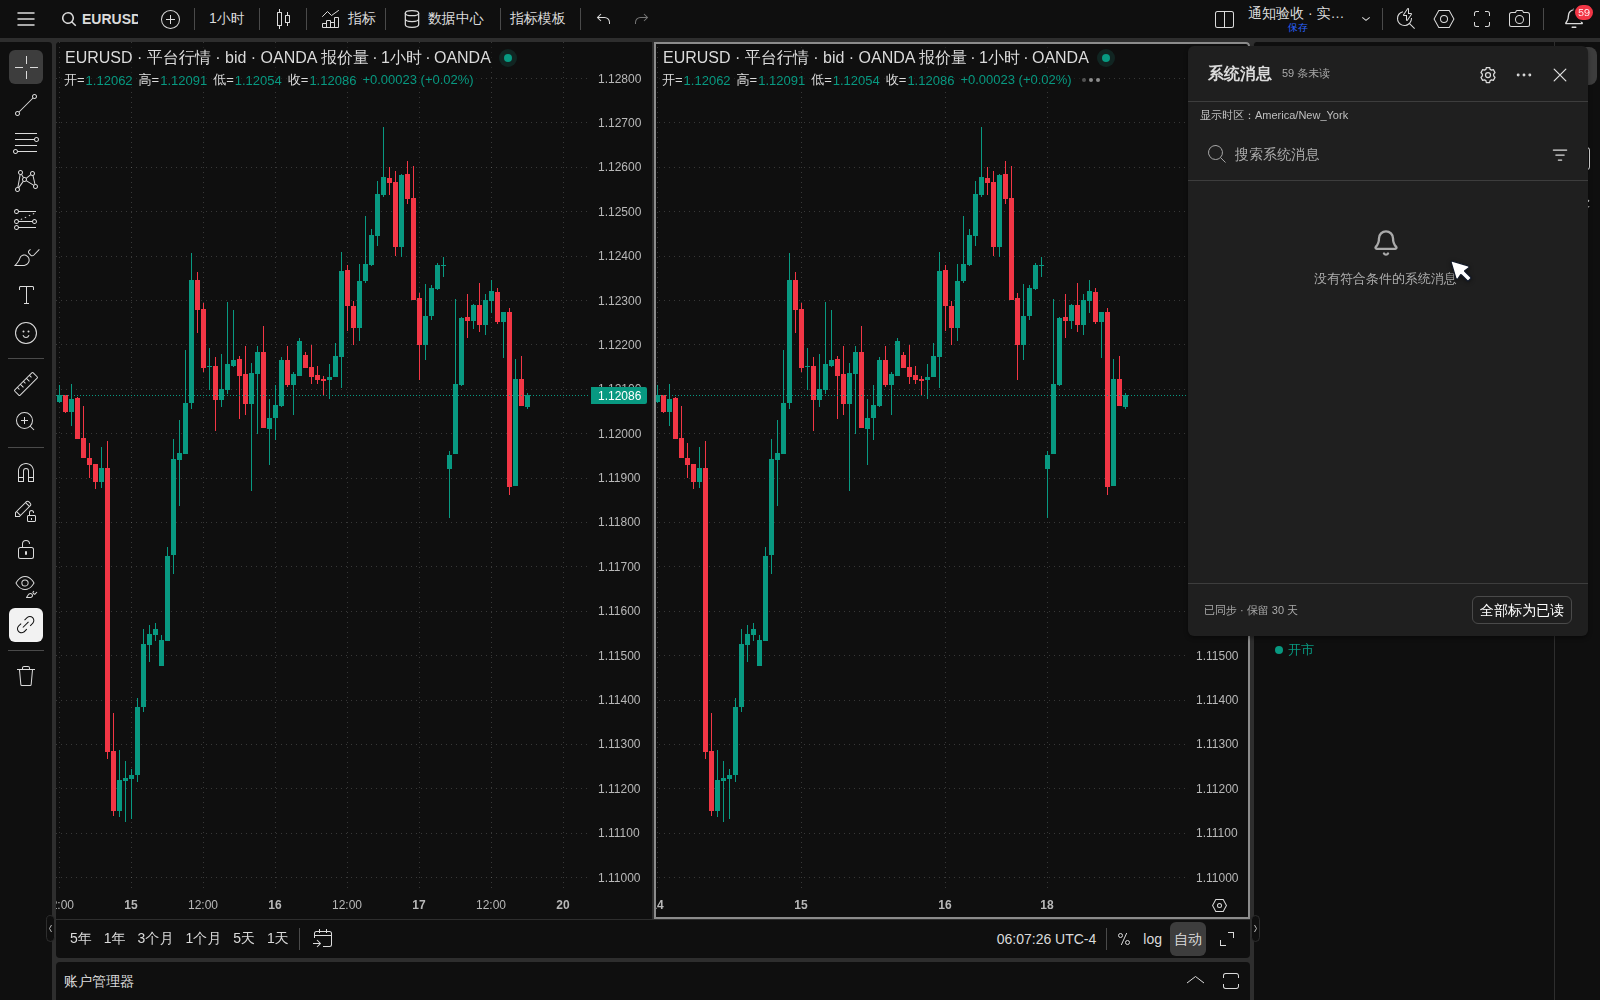
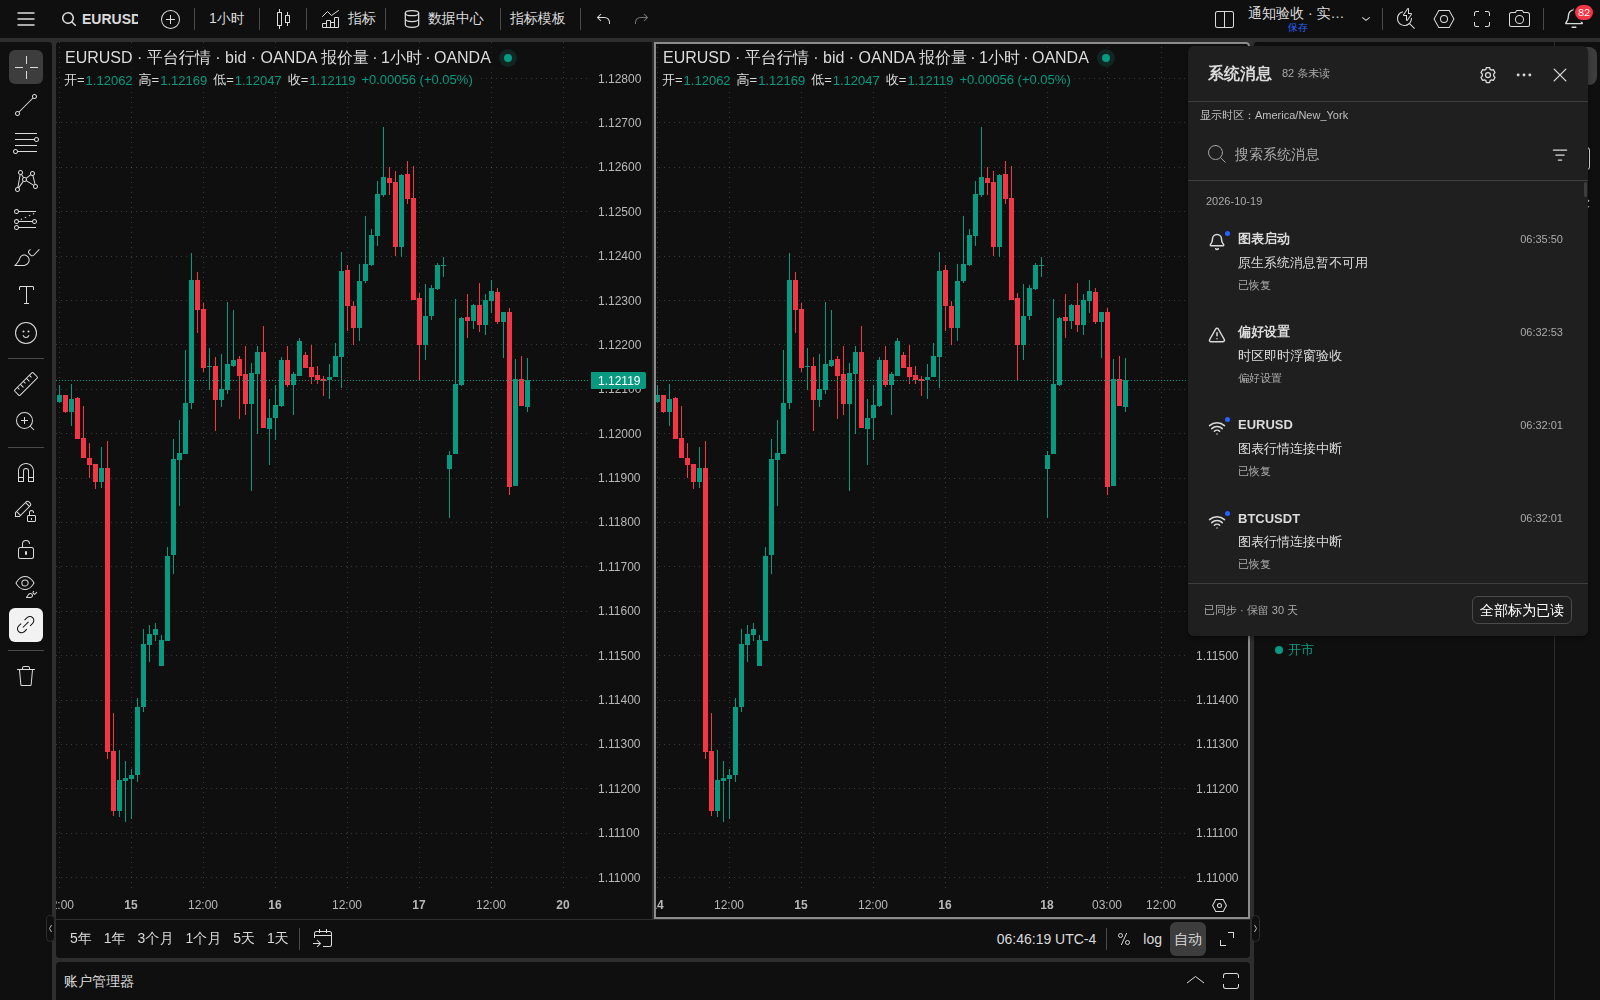
test(notifications): archive timezone and system auto-dismiss verification

diff --git a/docs/verification/chart-timezone-20261019/README.md b/docs/verification/chart-timezone-20261019/README.md
@@ -7,6 +7,7 @@
 ## 实例与操作
 
 - Ubuntu 本机 quant-server（192.168.7.232），Docker project `mw-issue75-v2-20261018`；全服务状态和镜像 ID 见 [runtime.json](runtime.json)。API、PG 和供源/投影/告警 worker 继续运行，更新 web/chart 两个容器；重载当前 gateway 的 Nginx 使它刷新容器 DNS。
+- 当前运行代码候选 `3210242`；原生通知和备用呈现的最终复验 `pageerror=[]`，恢复单图 UTC，不保存验收中临时的布局切换。
 - 正式登录：<https://192.168.7.232:18280/login>；真实图表：<https://192.168.7.232:18280/advanced-charts/mw75-real>。图表隔离源 18281。凭据沿用现有实例，单独保存，不提交。
 - 当前实例私有 Compose 启停入口：`python3 /tmp/mw75-integrated-compose.py up -d --no-build --no-deps web chart`；停止本轮展示服务：`python3 /tmp/mw75-integrated-compose.py stop web chart`。完整项目按相同 wrapper 的 `up -d --no-build` / `stop` 操作，不使用 `down -v`。不要停止其他 project。
 - 构建只走 `mw-docker build --repo . --component web|chart --tag market-watch-web:issue75-v2-candidate|market-watch-chart:issue75-v2-candidate --task mw-issue75-v2-20261018 --project mw-issue75-v2-20261018 --purpose acceptance`；Web 额外传 `--build-arg VITE_ADVANCED_CHART_ORIGIN=https://192.168.7.232:18281`。
@@ -25,7 +26,7 @@
 | 跨午夜分组 | 两条 23:30Z/00:30Z 隔离验收记录，在 UTC 分两天、上海同为 19 日、纽约同为 18 日；[UTC](midnight-UTC.png)、[上海](midnight-Shanghai.png)、[纽约](midnight-New_York.png) |
 | 筛选转换 | 纽约当地零点实际请求 since=1792296000000 / until=1792382400000；切 UTC 保留区间并显示 04:00；[转换后的输入](filter-utc-converted.png)。三个时区按各自日期边界查询分别命中 1/2/2 条跨午夜记录 |
 | 纽约 DST 日期边界 | 3 月 8 日请求 05:00Z 至次日 04:00Z（23 小时）；11 月 1 日请求 04:00Z 至次日 05:00Z（25 小时）；[25 小时范围](filter-dst-25-hours.png)。超出留存的日期/未来日期返回 0 条，仅证明转换和实际查询，不伪称有该日期真实事件 |
-| 多图激活图格 | 两图分别设上海/纽约，切激活图通知时区对应更新；[双图截图](multi-chart-active-ny.png)；整条记录 timestamp 不变。截图拍在清除筛选刷新间隙，分组数据另有上面的稳定截图 |
+| 多图激活图格 | 两图分别设上海/纽约，切激活图通知时区对应更新；[双图截图](multi-chart-active-ny.png)；整条记录 timestamp 不变，最新候选已重新截图，列表保持正常显示 |
 | 交易事件、检测和通知记录 | 原有真实事件同时显示事件/检测时间、网页/投递记录和服务端生成消息行；[上海详情](alert-detail-shanghai.png)、[UTC 详情](alert-detail-utc.png)。原始技术 JSON 保留 UTC 数字 |
 | 即时浮窗与同条详情 | 同一系统事件 1792405973483 在 [纽约浮窗](instant-new-york.png)显示 06:32:53，[UTC 浮窗](instant-utc.png)显示 10:32:53，与 [详情](instant-matching-detail.png)一致。交易浮窗复用同一个 NoticeBubble/formatter；本增量未重新触发真实交易，队列/确认回归沿用既有验收及持久化测试 |
 | exchange 与备用界面 | EURUSD 的 exchange 解析为 America/New_York；主动模拟原生呈现不可用后，[备用界面](fallback-shanghai.png)仍显示上海。检查完刷新恢复原生入口，移除浏览器临时拦截 |
@@ -42,3 +43,9 @@ DST 重复时刻曾尝试原生 Select；实际鼠标验收发现菜单被原生
 - `notifications-runtime.cjs`、真实 IndexedDB `notifications-persistence.cjs`、`chart-tab.cjs`、`single-app-routing.cjs` 通过；无新依赖、DB 迁移或后端源码改动。
 - 排查 JSON 和手机已有投递正文是原始证据，仍保留底层 UTC 格式；网页生成的可读时间均随图表。无法重新解释的旧本机缺失警示浏览器时间后缀在显示时省略，保留条数且不迁移持久格式。
 - 不宣称覆盖每个 IANA 历史时区、每种浏览器、物理手机送达、长时间压力或重新触发真实交易；本轮重点是显示/输入转换与正式登录。图表库为当前版本，未修改其许可库文件。
+
+## 系统浮窗自动消失反馈复验
+
+用户反馈系统消息不自动消失后，在当前候选 `3210242` 的同一实例/session 7 通过真实 API 创建明确标注的系统验收消息，驱动原生浮窗并断言消失。未修改展示或关闭代码。鼠标与焦点在外时约 8 秒自动消失；悬停 9 秒保留，移开后约 8 秒消失；关闭按钮获得键盘焦点 9 秒保留，焦点移到系统入口后约 8 秒消失。连续切换纽约/上海时区仍在 8106ms 内消失，见 [显示前](system-auto-dismiss-visible.png)、[自动关闭后](system-auto-dismiss-hidden.png)及 results.json 的 `systemAutoDismissFollowup`。截图只证明前后状态，时间线与 DOM 断言来自 Playwriter。
+
+当前已确认合同规定“悬停或焦点进入暂停”；这些路径表现与合同一致。尚未复现用户所述在移开鼠标和焦点后仍不消失，已询问具体消息标题及操作路径。此反馈保持待定位，不把本次复验称为故障修复；原时区截图曾通过悬停保持浮窗，不能单凭该截图证明自动消失。交易告警继续必须点击确定，本次未确认任何原有交易。
